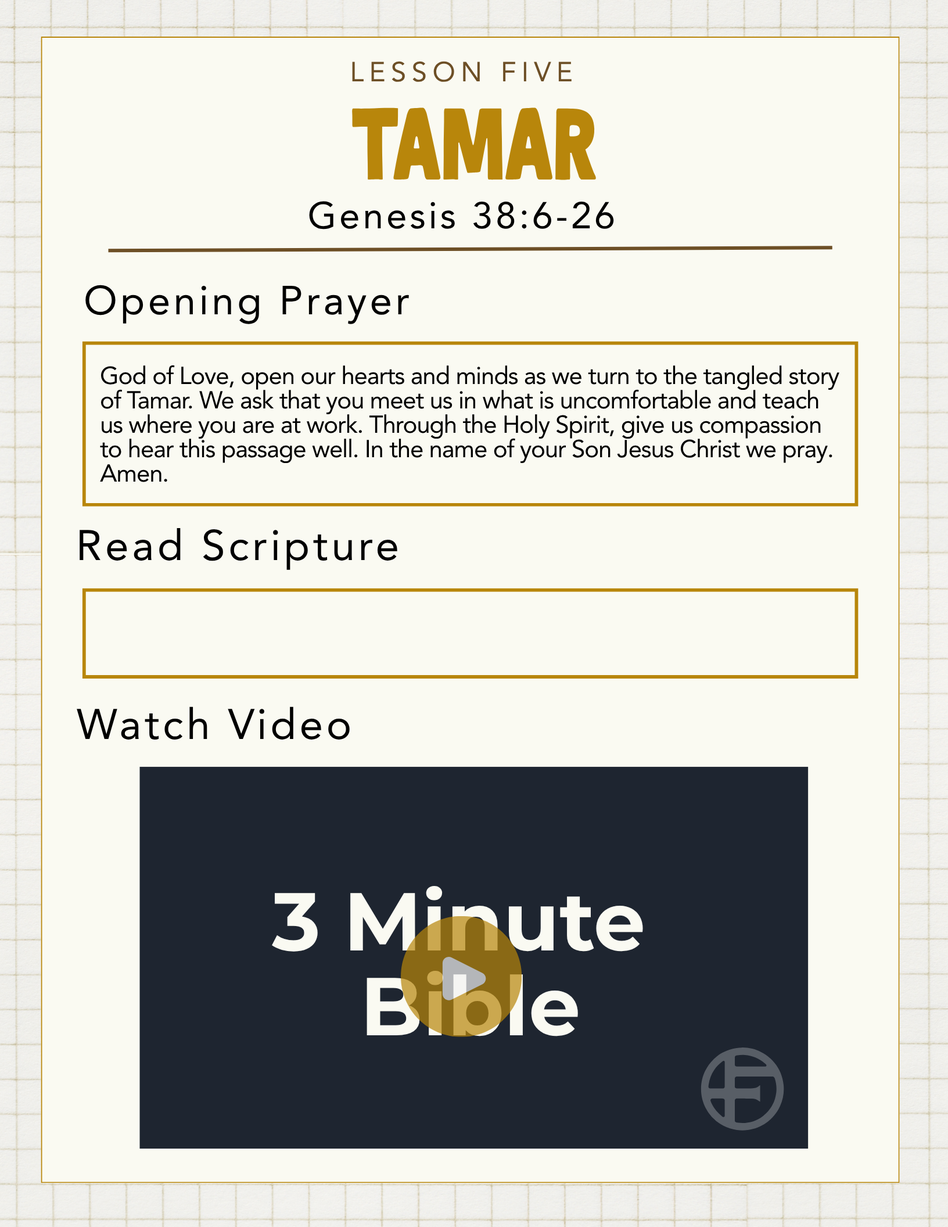
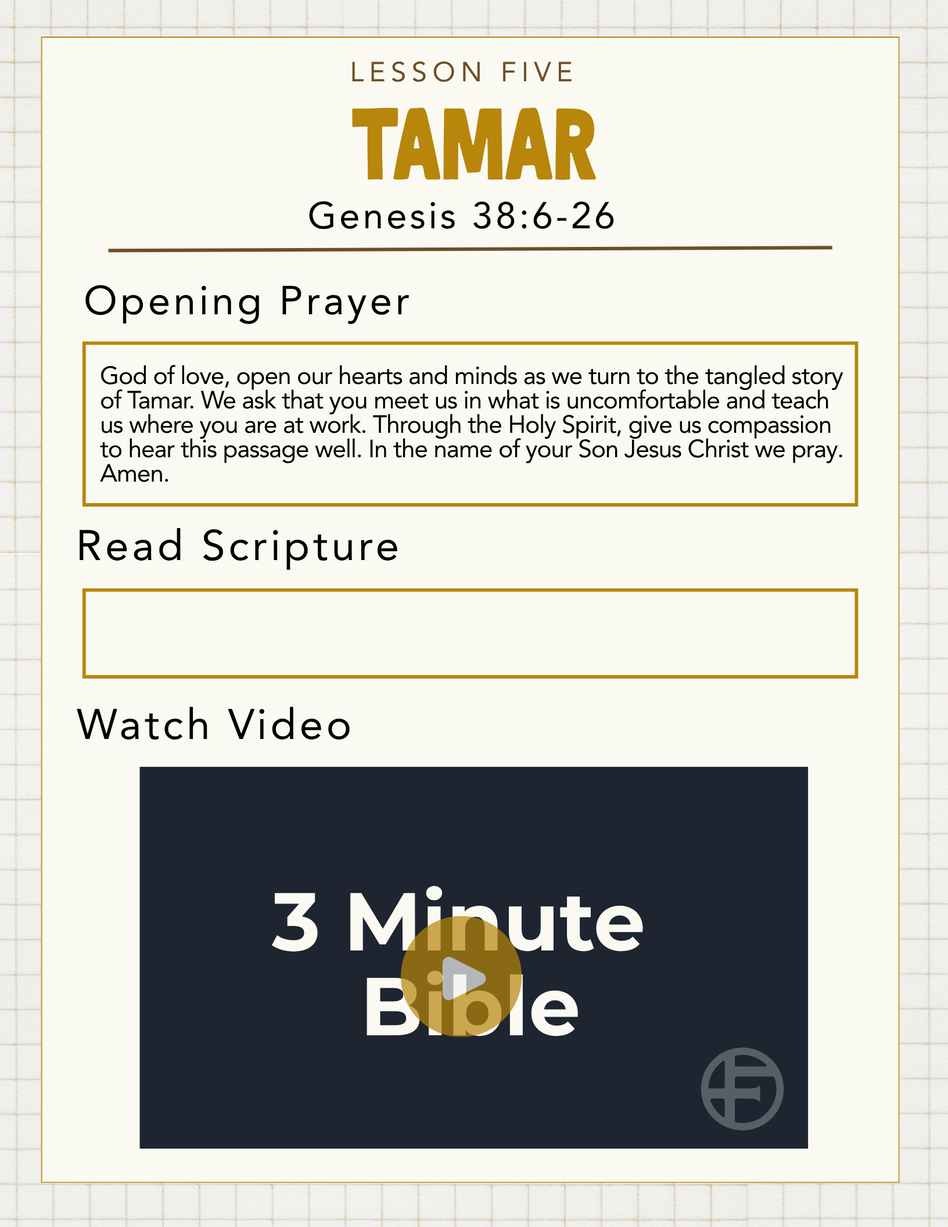
Women packet: update all six lessons to Emily's corrected Canva copy
- re-exported DAHOtl4BNMk pages 19-30 -> assets/pages/*.png (1632x2112, verified)
- content.js re-synced to the art: Hannah Q3/Q4, Shiphrah & Puah Q1/Q4,
  Zelophehad Q1/Q3/Q4, all of Tamar, Widow Q1/Q3/Q4, Tamar + Widow opening prayers
- Widow passage widened to 1 Kings 17:1-24 (ref, Bible Gateway url, and the
  scripture modal text extended with vv17-24, NRSVUE)
- hotspots re-measured on the new export (scripture y47.96 h7.34; widow y47.25)

Changed region(s): [[0.125, 0.2812, 0.875, 0.375]]

diff --git a/packets/gospel-according-to-the-women/content.js b/packets/gospel-according-to-the-women/content.js
@@ -3,8 +3,10 @@
    July 2026), and 3 (Shiphrah & Puah) questions are Emily-approved (final).
    Lessons 4 (Daughters of Zelophehad), 5 (Tamar), and 6 (Widow of Zarephath) questions
    were workshopped and revised with Emily (July 2026; Tamar's prayers were also tuned
-   this round). All six lessons' questions are now Emily's reviewed wording; the letter
-   and a packet-wide final prayer pass are still pending. All six scripture modals carry
+   this round). Re-synced Aug 17 2026 to Emily's corrected Canva copy (design DAHOtl4BNMk,
+   pages 19-30): Hannah Q3/Q4, Shiphrah & Puah Q1/Q4, Zelophehad Q1/Q3/Q4, all of Tamar,
+   Widow Q1/Q3/Q4, Tamar + Widow opening prayers, and the Widow's passage widened to
+   1 Kings 17:1-24. The letter and a packet-wide final prayer pass are still pending. All six scripture modals carry
    the full NRSVUE passage text (added July 2026, matching the Beyond Bumper Stickers
    packet); the pop-out also links to Bible Gateway, which shows the NRSVUE copyright
    notice. */
@@ -55,21 +57,21 @@ window.BBS_CONTENT = {
       "title": "Hannah",
       "subtitle": "",
       "openingPrayer": "Gracious God, quiet our minds as we read the story of Hannah. Open our ears to hear what the Holy Spirit is saying to us through these ancient words. Show us what this story reveals about you, and the lives you call us to lead. In the name of your Son Jesus Christ we pray. Amen.",
-      "closingPrayer": "Loving God, you are the one who meets us exactly where we are - in our longing, grief, and hope. Give us the courage to bring our whole selves before you. Give us compassion for ourselves and for others. In the name of your Son Jesus Christ we pray. Amen.",
+      "closingPrayer": "Loving God, you are the one who meets us exactly where we are – in our longing, grief, and hope. Give us the courage to bring our whole selves before you. Give us compassion for ourselves and for others. In the name of your Son Jesus Christ we pray. Amen.",
       "scriptureRef": "1 Samuel 1:1–20",
       "videoTitle": "3-Minute Bible",
       "videoSubtitle": "Grace: The Story of Hannah",
       "pageImages": ["assets/pages/hannah-a.png", "assets/pages/hannah-b.png"],
       "hotspots": {
-        "scripture": { "x": 8.7, "y": 48.06, "w": 81.74, "h": 7.05 },
-        "video": { "x": 14.77, "y": 62.5, "w": 70.4, "h": 31.06 }
+        "scripture": { "x": 8.7, "y": 47.96, "w": 81.8, "h": 7.34 },
+        "video": { "x": 14.77, "y": 62.5, "w": 70.47, "h": 31.11 }
       },
       "questions": [
         "How does the narrator describe Hannah’s relationship with her family, including her husband Elkanah and his other wife Peninnah? To what extent does Hannah’s childless state inform those relationships?",
-        "With no male offspring to support her, Hannah faced a potentially ruinous eventuality of becoming a childless widow - one of the most vulnerable members of society. Further, in the patriarchal setting of this narrative, Hannah’s prestige was tied to her fertility. How does this context inform Hannah’s prayers and concerns?",
-        "Hannah vows to give away the very son she is begging for back to God as a Nazirite. As a Nazirite, her son would not be raised at home by Hannah. Why do you think Hannah made this promise, and what do you make of it? (There are no wrong answers!)",
-        "As the video explains, Hannah’s infertility was understood as God’s withholding of pregnancy, such that the “cure” for it was prayer. Indeed, God hears Hannah’s prayer - she eventually bears five children (1 Sam. 2:21). How have Hannah’s social prospects changed as a result of her childbearing? What is the narrator communicating about the nature of God’s concern for our real-world problems?",
-        "Hannah prays “out of [her] great anxiety and vexation” - she’s so distressed that the priest Eli mistakenly believes her to be drunk. When you are in real grief, what does your own praying tend to look like?"
+        "With no male offspring to support her, Hannah faced a potentially ruinous eventuality of becoming a childless widow – one of the most vulnerable members of society. Further, in the patriarchal setting of this narrative, Hannah’s prestige was tied to her fertility. How does this context inform Hannah’s prayers and concerns?",
+        "Hannah vows to give away the very son she is begging for back to God. In practice, this meant her son would not be raised at home by Hannah. Why do you think Hannah made this promise, and what do you make of it?",
+        "As the video explains, Hannah’s infertility was understood as God’s withholding of pregnancy, such that the “cure” for it was prayer. Indeed, God hears Hannah’s prayer – she eventually bears five more children (1 Sam. 2:21). How have Hannah’s social prospects changed as a result of her childbearing? What is the narrator communicating about the nature of God’s concern for our real-world problems?",
+        "Hannah prays “out of [her] great anxiety and vexation” – she’s so distressed that the priest Eli mistakenly believes her to be drunk. When you are in real grief, what does your own praying tend to look like?"
       ],
       "scriptureUrl": "https://www.biblegateway.com/passage/?search=1%20Samuel%201%3A1-20&version=NRSVUE",
       "videoUrl": "https://player.vimeo.com/video/1214331973",
@@ -96,15 +98,15 @@ window.BBS_CONTENT = {
       "videoSubtitle": "What is a Markan sandwich?",
       "pageImages": ["assets/pages/two-daughters-a.png", "assets/pages/two-daughters-b.png"],
       "hotspots": {
-        "scripture": { "x": 8.7, "y": 48.06, "w": 81.74, "h": 7.05 },
-        "video": { "x": 14.77, "y": 62.5, "w": 70.4, "h": 31.06 }
+        "scripture": { "x": 8.7, "y": 47.96, "w": 81.8, "h": 7.34 },
+        "video": { "x": 14.77, "y": 62.5, "w": 70.47, "h": 31.11 }
       },
       "questions": [
         "Mark is famously sparse with words, telling the reader only the necessary information without much descriptive detail. Take a few minutes and imagine the details that Mark omitted. What sights, smells, and sounds do you imagine as you read? What tones of voice were used by each person as they spoke?",
         "What context does Mark give about the bleeding woman? Aside from her physical condition, how does Mark indicate the other ways she suffers?",
         "Being on the social fringes as she was, the bleeding woman was especially bold in struggling through the crowd to touch Jesus. What emotions do you imagine she feels as she reaches for Jesus’s cloak?",
         "Jesus gives life to both the woman and the girl, but in very different contexts. What does restoration and healing look like for each of them?",
-        "The bleeding woman’s lowly social status contrasts with that of Jairus - a prominent synagogue leader. Even so, he begs at Jesus’s feet. In what ways does this narrative show Jesus’s power to overcome boundaries - including social boundaries and death itself?",
+        "The bleeding woman’s lowly social status contrasts with that of Jairus – a prominent synagogue leader. Even so, he begs at Jesus’s feet. In what ways does this narrative show Jesus’s power to overcome boundaries – including social boundaries and death itself?",
         "How does this narrative reveal a Jesus who is divine but also tender and human?"
       ],
       "scriptureUrl": "https://www.biblegateway.com/passage/?search=Mark%205%3A21-43&version=NRSVUE",
@@ -140,14 +142,14 @@ window.BBS_CONTENT = {
       "videoSubtitle": "Background to the Exodus",
       "pageImages": ["assets/pages/shiphrah-puah-a.png", "assets/pages/shiphrah-puah-b.png"],
       "hotspots": {
-        "scripture": { "x": 8.7, "y": 48.06, "w": 81.74, "h": 7.05 },
-        "video": { "x": 14.77, "y": 62.5, "w": 70.4, "h": 31.06 }
+        "scripture": { "x": 8.7, "y": 47.96, "w": 81.8, "h": 7.34 },
+        "video": { "x": 14.77, "y": 62.5, "w": 70.47, "h": 31.11 }
       },
       "questions": [
-        "The story never tells us how Shiphrah and Puah responded when Pharaoh gave them his command. He apparently expected them to obey, and the narrative doesn't tell us how they deliberated between themselves or formed a plan. Using your imagination, help fill in these narrative gaps. What might the women have said to Pharaoh and one another? To the other midwives in their community, and to expectant Hebrew mothers?",
+        "The story never tells us how Shiphrah and Puah initially responded to Pharaoh’s command. The narrative doesn't tell us how they deliberated between themselves or formed a plan. Using your imagination, help fill in these narrative gaps. What might the women have said to Pharaoh and one another? To the other midwives in their community, and to expectant Hebrew mothers?",
         "Scholars debate whether Shiphrah and Puah were Hebrew midwives or non-Hebrew midwives who served Hebrew women. How does the story change if they were protecting people outside their own community? What risks did they face for their defiance? What might have led them to take that risk?",
         "Pharaoh orders the midwives to kill the boys but lets the girls live, apparently assuming that girls pose no threat to him. Yet women repeatedly defeat his plan. What does Pharaoh fail to understand about where true power resides?",
-        "Shiphrah and Puah receive no instructions from God—no burning bush, no voice from above. What does this tell us about our human capacity to discern God’s will, even when we cannot hear God’s voice?",
+        "Shiphrah and Puah receive no instructions from God – there’s no burning bush, no voice from above – and yet they obey God’s will. What does this tell us about our human capacity to discern God’s call in our lives, even when it seems God hasn’t spoken?",
         "Looking back, it’s easy for us to see Pharaoh’s command as evil, and the midwives’ acts as faithful disobedience. In our own lives, it’s often harder to discern where we are called to disobey on moral or ethical grounds. Have you ever faced a choice between your conscience and following an authority? How did you respond?"
       ],
       "scriptureUrl": "https://www.biblegateway.com/passage/?search=Exodus%201%3A8-22&version=NRSVUE",
@@ -172,14 +174,14 @@ window.BBS_CONTENT = {
       "videoSubtitle": "The Daughters of Zelophehad",
       "pageImages": ["assets/pages/zelophehad-a.png", "assets/pages/zelophehad-b.png"],
       "hotspots": {
-        "scripture": { "x": 8.7, "y": 48.06, "w": 81.74, "h": 7.05 },
-        "video": { "x": 14.77, "y": 62.5, "w": 70.4, "h": 31.06 }
+        "scripture": { "x": 8.7, "y": 47.96, "w": 81.8, "h": 7.34 },
+        "video": { "x": 14.77, "y": 62.5, "w": 70.47, "h": 31.11 }
       },
       "questions": [
-        "This lesson’s passages reflect the Israelites’ plans to allocate the promised land among the various families. Distributing the land fairly was essential, because the Israelites survived primarily on food grown on their respective families’ land. Land was passed patrilineally, meaning through male heirs. Keeping this in mind, what are the daughters’ circumstances in the wake of their father’s death, and how are they now uniquely vulnerable?",
+        "As shown in the reading, the Israelites intended to allocate the promised land among the various families. Allocating the land equitably was essential, as families relied heavily on food their own land produced. Land was passed patrilineally, meaning through male heirs. Keeping this in mind, what’s at stake for the daughters in the wake of their father’s death, and how are they now uniquely vulnerable?",
         "How does the narrator build dramatic tension as the daughters approach Moses? What makes their legal claim, and the manner in which they present it, particularly bold?",
-        "How is the issue at hand relevant beyond the daughters themselves? How does the outcome affect their descendants? Other men without sons, and their daughters? The community at large?",
-        "What is Moses’ role in resolving the question the daughters pose? Who actually owns and controls the land and determines its use, and ultimately creates the laws?",
+        "How is the issue at hand relevant beyond the daughters themselves? How does the outcome affect their descendants? How does it affect other men without sons, and their daughters? How does it affect the community at large?",
+        "What is Moses’s role in resolving the question the daughters pose? Who actually owns and controls the land and determines its use, and ultimately creates the laws?",
         "As modern readers, how does the outcome of this story inform our responsibility to care for the land and the vulnerable members of our communities? How does the narrative suggest that fulfilling these responsibilities is a matter of being faithful and obedient to God?"
       ],
       "scriptureUrl": "https://www.biblegateway.com/passage/?search=Numbers%2026%3A52-56%3B%2027%3A1-11&version=NRSVUE",
@@ -200,22 +202,22 @@ window.BBS_CONTENT = {
       "shortRef": "Genesis 38",
       "title": "Tamar",
       "subtitle": "",
-      "openingPrayer": "God of Love, open our hearts and minds as we turn to the tangled story of Tamar. We ask that you meet us in what is uncomfortable and teach us where you are at work. Through the Holy Spirit, give us compassion to hear this passage well. In the name of your Son Jesus Christ we pray. Amen.",
+      "openingPrayer": "God of love, open our hearts and minds as we turn to the tangled story of Tamar. We ask that you meet us in what is uncomfortable and teach us where you are at work. Through the Holy Spirit, give us compassion to hear this passage well. In the name of your Son Jesus Christ we pray. Amen.",
       "closingPrayer": "God of mercy, you are faithful to us when things get messy and complicated. Send us out with courage, knowing that you are at work in all of the unfinished places of our lives. Help us to remain faithful to you and each other. In the name of your Son Jesus Christ we pray. Amen.",
       "scriptureRef": "Genesis 38:6–26",
       "videoTitle": "3-Minute Bible",
       "videoSubtitle": "Tamar: Righteousness When the System Fails",
       "pageImages": ["assets/pages/tamar-a.png", "assets/pages/tamar-b.png"],
       "hotspots": {
-        "scripture": { "x": 8.7, "y": 48.06, "w": 81.74, "h": 7.05 },
-        "video": { "x": 14.77, "y": 62.5, "w": 70.4, "h": 31.06 }
+        "scripture": { "x": 8.7, "y": 47.96, "w": 81.8, "h": 7.34 },
+        "video": { "x": 14.77, "y": 62.5, "w": 70.47, "h": 31.11 }
       },
       "questions": [
-        "In ancient Israel, access to land, and having male offspring to farm and inherit land, was key to survival. This made childless widows among the most vulnerable members of society. With this in mind, consider the aspects of this story that, as modern readers, strike us as odd and disturbing but make more sense within this context. What are Judah's instructions to Onan, and what motivates that instruction? What motivates Tamar, and what is she fighting for?",
-        "Who are the villains and protagonists in this story? Is the narrator inviting us to perceive Tamar's trickery as problematic, or heroic? What aspects of the narrative prompt your responses?",
-        "A recurring Old Testament motif is the courageous underdog who defeats a more powerful opponent using trickery. (Bonus points if you can think of any other examples!) What narrative clues establish Judah as a powerful figure? Why are stories of trickery so resonant across time?",
-        "The narrator indicates that Onan's behavior was so displeasing to God that God \"put him to death.\" Remembering the context from question 1, why was Onan's behavior so displeasing? (See Deut. 25:5–10 for additional context.) How does God’s displeasure for Onan demonstrate God's care for Tamar? What is the narrative telling us about God's care for the socially vulnerable, and our duty of care for them as well?",
-        "Remembering that there are no wrong answers, to what extent are you comfortable finding theological meaning in a story that is troublesome to our modern eyes and ears?"
+        "In the social setting of this story, childless widows were among the community’s most vulnerable members, as male offspring helped ensure a woman’s security. How do these factors help us, as modern readers, understand the strange and disturbing aspects of this story? What motivates Tamar, and what is she fighting for?",
+        "Who are the villains and protagonists in this story? Is the narrator inviting us to perceive Tamar's behavior as problematic, heroic, or both? What aspects of the narrative prompt your responses?",
+        "A recurring Old Testament motif is the courageous underdog who defeats a more powerful opponent using trickery. (Bonus points if you can think of any other examples!) What narrative clues establish Judah as powerful in this story? Why are stories of trickery so resonant across time?",
+        "Onan's behavior so displeased God that God “put him to death.” Remembering the context from question 1, why was Onan's behavior so displeasing? (See Deut. 25:5–10 for additional context.) What does God’s judgment of Onan suggest about God’s concern for Tamar, and for the socially vulnerable more generally?",
+        "Do you feel comfortable finding theological meaning in biblical stories that are troublesome to our modern eyes and ears? Have you ever found “good news” in a biblical text that you initially found challenging?"
       ],
       "scriptureUrl": "https://www.biblegateway.com/passage/?search=Genesis%2038%3A6-26&version=NRSVUE",
       "videoUrl": "https://player.vimeo.com/video/1214332107",
@@ -239,28 +241,28 @@ window.BBS_CONTENT = {
       "n": 6,
       "tabRef": "The Widow",
       "accent": "#6D4F26",
-      "reference": "1 Kings 17:1–16",
+      "reference": "1 Kings 17:1–24",
       "shortRef": "1 Kings 17",
       "title": "The Widow of Zarephath",
       "subtitle": "",
-      "openingPrayer": "God of Provision, you provide for us in our places of scarcity and fear. As we turn to Scripture, help us notice your everlasting faithfulness as you work through unlikely people. In the name of your Son Jesus Christ we pray. Amen.",
+      "openingPrayer": "God of provision, you provide for us in our places of scarcity and fear. As we turn to Scripture, help us notice your everlasting faithfulness as you work through unlikely people. In the name of your Son Jesus Christ we pray. Amen.",
       "closingPrayer": "Generous God, you are gracious in providing for us when our jars are empty. You work through our neighbors and strangers alike. Help us to notice your goodness, welcome the stranger, and trust in your provision. In the name of your Son Jesus Christ we pray. Amen.",
-      "scriptureRef": "1 Kings 17:1–16",
+      "scriptureRef": "1 Kings 17:1–24",
       "videoTitle": "3-Minute Bible",
       "videoSubtitle": "The Widow of Zarephath",
       "pageImages": ["assets/pages/widow-a.png", "assets/pages/widow-b.png"],
       "hotspots": {
-        "scripture": { "x": 8.7, "y": 48.06, "w": 81.74, "h": 7.05 },
-        "video": { "x": 14.77, "y": 62.5, "w": 70.4, "h": 31.06 }
+        "scripture": { "x": 8.7, "y": 47.25, "w": 81.8, "h": 7.34 },
+        "video": { "x": 14.77, "y": 62.36, "w": 70.47, "h": 31.11 }
       },
       "questions": [
-        "The widow doesn't seem to have received any message from God, and yet in verse 9 we are told that God has said, \"I have commanded a widow there to feed you.\" Look back at the similar statement about the ravens in verse 4. What do these two passages suggest about what \"command\" can mean? How might God be at work through us even when we have not heard God's voice directly?",
+        "In verse 9, God says, “I have commanded a widow there to feed you,” even as the widow seems unaware of any command from God. Compare this with God’s statement about commanding the ravens in verse 4. What do these two passages suggest about how God works through creation? Can we participate in God’s purposes without realizing it?",
         "Elijah, one of the most prominent figures in the Old Testament, is called to speak God's word to kings. Yet God chooses a widow, someone with little social power and almost no food, to sustain him. What do you make of God placing Elijah's survival in her hands?",
-        "God sends Elijah outside Israel to Zarephath - a center of Baal worship. The widow who lives there is a foreigner, yet she demonstrates faith in Israel's God. What might it mean that Elijah experiences God's power and provision through a foreigner? How does the narrator weigh the importance of faith against ethnic or national identity? What lessons might the original Israelite readers have been meant to learn from this passage?",
-        "In the video we learn that extending hospitality was a source of honor in ancient Israel. God could have provided for Elijah without involving the widow. Instead, God instructs Elijah to enter the widow's home, where she becomes his host. How does this address the widow's social needs?",
+        "God sends Elijah outside Israel to Zarephath – a center of Baal worship. The widow who lives there is a foreigner, yet she demonstrates faith in Israel's God. What might it mean that Elijah experiences God's power and provision through a foreigner? How does the narrator weigh the importance of faith against ethnic identity? What lessons might the original Israelite readers have been meant to learn from this passage?",
+        "As Dr. Arnold explains in the video, extending hospitality was a source of honor in ancient Israel. God could have provided for Elijah without involving the widow. Instead, God instructs Elijah to enter the widow's home, where she becomes his host. How does this address the widow's own social needs?",
         "Have you ever needed to rely on someone more vulnerable, or less powerful, than you for help or hospitality? How can giving or accepting hospitality be an act of grace?"
       ],
-      "scriptureUrl": "https://www.biblegateway.com/passage/?search=1%20Kings%2017%3A1-16&version=NRSVUE",
+      "scriptureUrl": "https://www.biblegateway.com/passage/?search=1%20Kings%2017%3A1-24&version=NRSVUE",
       "videoUrl": "",
       "optionalVideo": null,
       "optionalReadings": [
@@ -270,7 +272,7 @@ window.BBS_CONTENT = {
           "url": "https://www.biblegateway.com/passage/?search=Luke%204%3A25-26&version=NRSVUE"
         }
       ],
-      "scriptureText": "<h4>1 Kings 17:1–16</h4>\n<p><span class=\"vn\">1</span>Now Elijah the Tishbite, of Tishbe in Gilead, said to Ahab, “As the Lord the God of Israel lives, before whom I stand, there shall be neither dew nor rain these years, except by my word.” <span class=\"vn\">2</span>The word of the Lord came to him [Elijah], saying, <span class=\"vn\">3</span>“Go from here and turn eastward, and hide yourself by the Wadi Cherith, which is east of the Jordan. <span class=\"vn\">4</span>You shall drink from the wadi, and I have commanded the ravens to feed you there.” <span class=\"vn\">5</span>So he went and did according to the word of the Lord; he went and lived by the Wadi Cherith, which is east of the Jordan. <span class=\"vn\">6</span>The ravens brought him bread and meat in the morning and bread and meat in the evening, and he drank from the wadi. <span class=\"vn\">7</span>But after a while the wadi dried up because there was no rain in the land.</p>\n<p><span class=\"vn\">8</span>Then the word of the Lord came to him, saying, <span class=\"vn\">9</span>“Go now to Zarephath, which belongs to Sidon, and live there, for I have commanded a widow there to feed you.” <span class=\"vn\">10</span>So he set out and went to Zarephath. When he came to the gate of the town, a widow was there gathering sticks; he called to her and said, “Bring me a little water in a vessel, so that I may drink.” <span class=\"vn\">11</span>As she was going to bring it, he called to her and said, “Bring me a morsel of bread in your hand.” <span class=\"vn\">12</span>But she said, “As the Lord your God lives, I have nothing baked, only a handful of meal in a jar and a little oil in a jug; I am now gathering a couple of sticks so that I may go home and prepare it for myself and my son, that we may eat it and die.” <span class=\"vn\">13</span>Elijah said to her, “Do not be afraid; go and do as you have said, but first make me a little cake of it and bring it to me, and afterward make something for yourself and your son. <span class=\"vn\">14</span>For thus says the Lord the God of Israel: The jar of meal will not be emptied and the jug of oil will not fail until the day that the Lord sends rain on the earth.” <span class=\"vn\">15</span>She went and did as Elijah said, so that she as well as he and her household ate for many days. <span class=\"vn\">16</span>The jar of meal was not emptied, neither did the jug of oil fail, according to the word of the Lord that he spoke by Elijah.</p>",
+      "scriptureText": "<h4>1 Kings 17:1–24</h4>\n<p><span class=\"vn\">1</span>Now Elijah the Tishbite, of Tishbe in Gilead, said to Ahab, “As the Lord the God of Israel lives, before whom I stand, there shall be neither dew nor rain these years, except by my word.” <span class=\"vn\">2</span>The word of the Lord came to him [Elijah], saying, <span class=\"vn\">3</span>“Go from here and turn eastward, and hide yourself by the Wadi Cherith, which is east of the Jordan. <span class=\"vn\">4</span>You shall drink from the wadi, and I have commanded the ravens to feed you there.” <span class=\"vn\">5</span>So he went and did according to the word of the Lord; he went and lived by the Wadi Cherith, which is east of the Jordan. <span class=\"vn\">6</span>The ravens brought him bread and meat in the morning and bread and meat in the evening, and he drank from the wadi. <span class=\"vn\">7</span>But after a while the wadi dried up because there was no rain in the land.</p>\n<p><span class=\"vn\">8</span>Then the word of the Lord came to him, saying, <span class=\"vn\">9</span>“Go now to Zarephath, which belongs to Sidon, and live there, for I have commanded a widow there to feed you.” <span class=\"vn\">10</span>So he set out and went to Zarephath. When he came to the gate of the town, a widow was there gathering sticks; he called to her and said, “Bring me a little water in a vessel, so that I may drink.” <span class=\"vn\">11</span>As she was going to bring it, he called to her and said, “Bring me a morsel of bread in your hand.” <span class=\"vn\">12</span>But she said, “As the Lord your God lives, I have nothing baked, only a handful of meal in a jar and a little oil in a jug; I am now gathering a couple of sticks so that I may go home and prepare it for myself and my son, that we may eat it and die.” <span class=\"vn\">13</span>Elijah said to her, “Do not be afraid; go and do as you have said, but first make me a little cake of it and bring it to me, and afterward make something for yourself and your son. <span class=\"vn\">14</span>For thus says the Lord the God of Israel: The jar of meal will not be emptied and the jug of oil will not fail until the day that the Lord sends rain on the earth.” <span class=\"vn\">15</span>She went and did as Elijah said, so that she as well as he and her household ate for many days. <span class=\"vn\">16</span>The jar of meal was not emptied, neither did the jug of oil fail, according to the word of the Lord that he spoke by Elijah.</p>\n<p><span class=\"vn\">17</span>After this the son of the woman, the mistress of the house, became ill; his illness was so severe that there was no breath left in him. <span class=\"vn\">18</span>She then said to Elijah, “What have you against me, O man of God? You have come to me to bring my sin to remembrance and to cause the death of my son!” <span class=\"vn\">19</span>But he said to her, “Give me your son.” He took him from her bosom, carried him up into the upper chamber where he was lodging, and laid him on his own bed. <span class=\"vn\">20</span>He cried out to the Lord, “O Lord my God, have you brought calamity even upon the widow with whom I am staying, by killing her son?” <span class=\"vn\">21</span>Then he stretched himself upon the child three times and cried out to the Lord, “O Lord my God, let this child’s life come into him again.” <span class=\"vn\">22</span>The Lord listened to the voice of Elijah; the life of the child came into him again, and he revived. <span class=\"vn\">23</span>Elijah took the child, brought him down from the upper chamber into the house, and gave him to his mother; then Elijah said, “See, your son is alive.” <span class=\"vn\">24</span>So the woman said to Elijah, “Now I know that you are a man of God and that the word of the Lord in your mouth is truth.”</p>",
       "headerImage": null
     }
   ]
